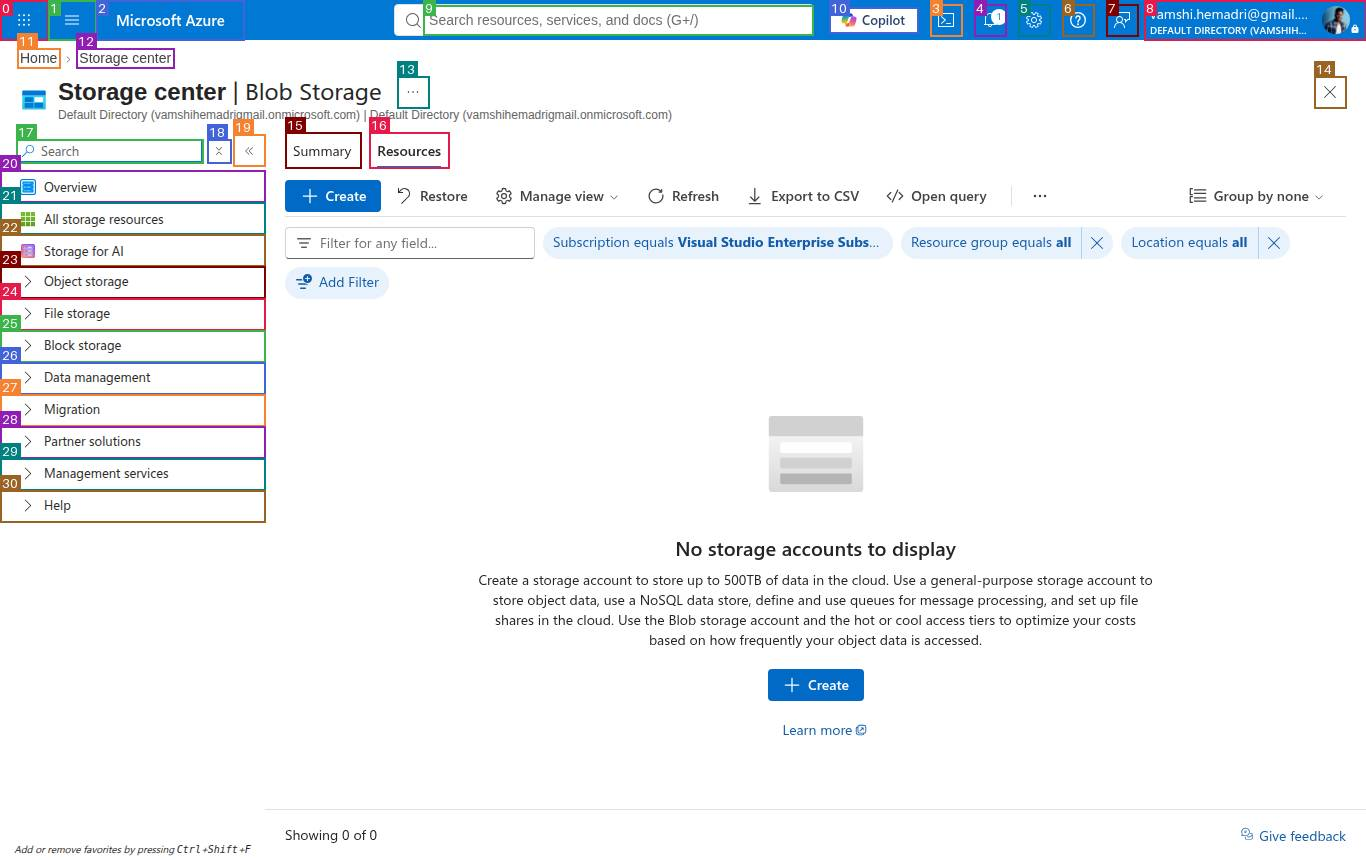
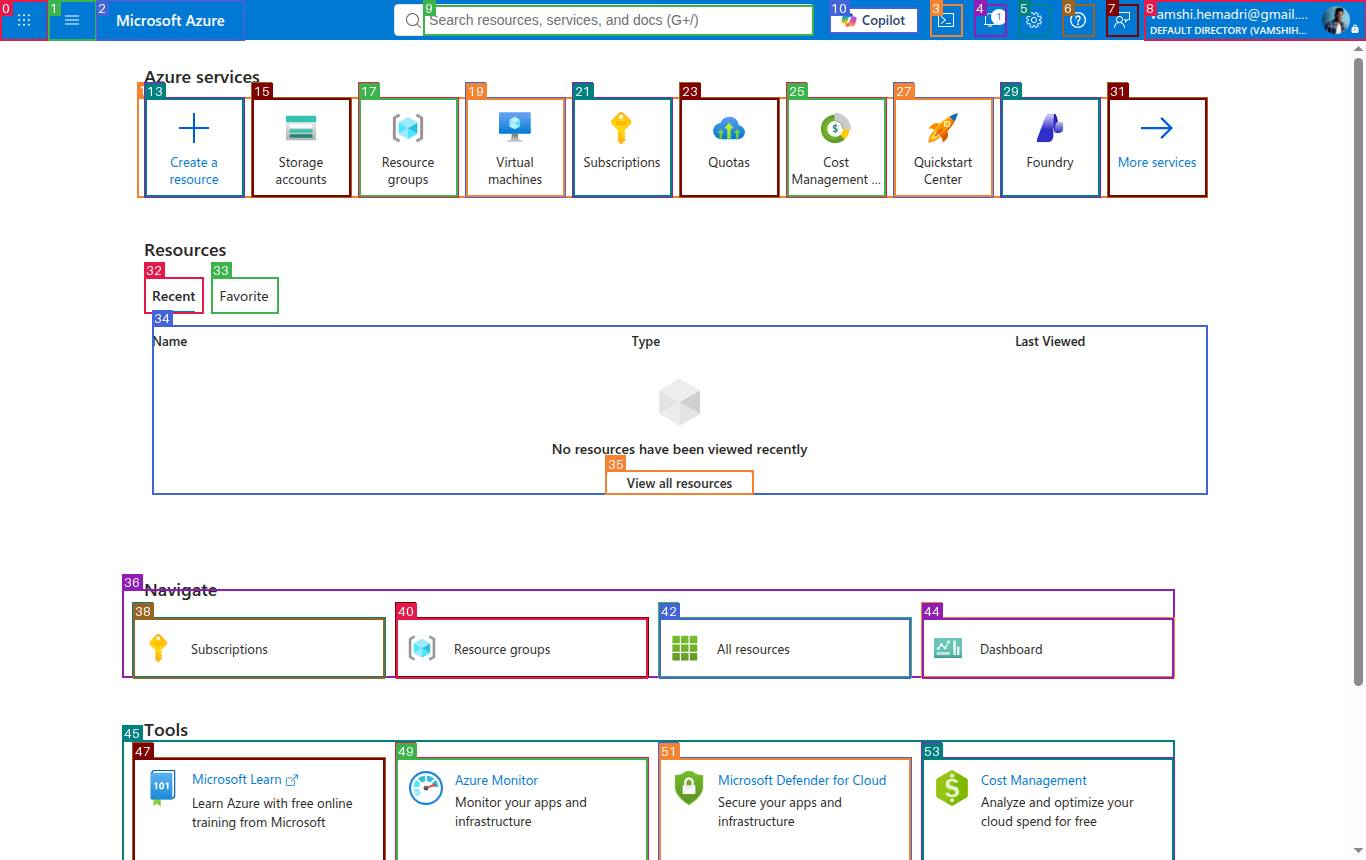
Demo UI polish: model tile, screen panel, learning history on load

diff --git a/groundhog/app.py b/groundhog/app.py
@@ -262,6 +262,17 @@ def api_harness():
     return jsonify(active=label, versions=versions, timeline=timeline, files=files)
 
 
+@app.get("/api/recent")
+def api_recent():
+    """Earlier learning (harness versions and lessons), newest first, so the feed tells the story after a restart."""
+    items = [dict(ts=a["ts"], kind="harness", title=f"Harness v{a['version']}: updated {', '.join(a['files'])}",
+                  text=a["hypotheses"][0] if a.get("hypotheses") else "", diff=a.get("diff", ""), version=a["version"])
+             for a in _jl("archive.jsonl") if a.get("status") == "accepted" and "version" in a]
+    items += [dict(ts=b["created"], kind="lesson", title=f"Lesson ({b['type']}, {b['scope']})", text=b["text"])
+              for b in brain.bullets() if b.get("created")]
+    return jsonify(items=sorted(items, key=lambda x: -x["ts"])[:14])
+
+
 @app.get("/api/summary")
 def api_summary():
     log = _jl("routing.jsonl")
@@ -351,7 +362,7 @@ nav button.on{background:#1c242e;color:#fff}nav button:hover{color:#fff}
 .compose{border-top:1px solid var(--line);padding:10px;display:flex;gap:8px}.compose input{flex:1;padding:10px 12px;border:1px solid #cfd5dd;border-radius:10px;font-size:14px}
 .compose button,.qb{background:var(--ink);color:#fff;border:0;border-radius:10px;padding:0 16px;cursor:pointer}
 .quick{display:flex;flex-wrap:wrap;gap:6px;padding:0 10px 10px}.qb{background:#eef1f5;color:var(--ink);padding:6px 10px;font-size:12px}
-.screen{position:relative;flex:1;display:flex;align-items:center;justify-content:center;background:#0b0f14;border-radius:0 0 12px 12px;overflow:hidden}
+.screen{position:relative;flex:1;display:flex;align-items:flex-start;justify-content:center;background:#eef1f5;border-radius:0 0 12px 12px;overflow:auto;padding:8px}
 .screen img{max-width:100%;max-height:100%}.now{padding:8px 14px;font-size:13px;border-bottom:1px solid var(--line);display:flex;gap:10px;align-items:center}
 .steps{margin-left:auto;background:var(--ink);color:#fff;border-radius:20px;padding:2px 12px;font-weight:700}
 .status{font-size:12px;color:var(--mut)}.dot{width:9px;height:9px;border-radius:50%;background:#bbb;display:inline-block}.dot.busy{background:var(--g);animation:p 1s infinite}
@@ -384,7 +395,7 @@ table{width:100%;border-collapse:collapse;font-size:13px}td,th{padding:6px 8px;b
 <div class="kpi hi"><div class="l">Harness version</div><div class="v" id="k-ver">v0</div><div class="d" id="k-ver-d"></div></div>
 <div class="kpi hi"><div class="l">Lessons learned</div><div class="v" id="k-les">0</div><div class="d" id="k-les-d"></div></div>
 <div class="kpi"><div class="l">Switchyard routing</div><div class="v"><span id="k-eff" style="color:var(--eff)">0</span> / <span id="k-cap" style="color:var(--cap)">0</span></div><div class="d">efficient / capable prompts</div></div>
-<div class="kpi"><div class="l">Nemotron models</div><div class="v" id="k-mod">0</div><div class="d" id="k-mod-d"></div></div>
+<div class="kpi"><div class="l">Nemotron models</div><div class="v" id="k-mod">0</div><div class="d" id="k-mod-d">all NVIDIA Nemotron on Crusoe</div></div>
 <div class="kpi"><div class="l">Validations</div><div class="v"><span id="k-ok" style="color:#047857">0</span> / <span id="k-bad" style="color:#b91c1c">0</span></div><div class="d">worked / failed</div></div>
 <div class="kpi"><div class="l">Cost so far</div><div class="v" id="k-cost">$0</div><div class="d">Crusoe inference</div></div></div>
 
@@ -478,7 +489,7 @@ function bar(v,c){return `<div class="bar"><i style="width:${Math.round(v*100)}%
 async function refresh(){try{const S=await (await fetch('/api/summary')).json();
  $('#k-ver').textContent='v'+S.version;$('#k-ver-d').textContent=S.versions_learned+' version(s) learned';$('#k-les').textContent=S.lessons;
  $('#k-les-d').textContent=S.trusted+' trusted · '+S.quarantined+' quarantined';$('#k-eff').textContent=S.efficient;$('#k-cap').textContent=S.capable;
- $('#k-mod').textContent=S.models.length;$('#k-mod-d').textContent=S.models.map(mn).join(', ');$('#k-ok').textContent=S.validations_ok;$('#k-bad').textContent=S.validations_bad;$('#k-cost').textContent='$'+S.spent;
+ $('#k-mod').textContent=S.models.length;$('#k-mod-d').title=S.models.map(mn).join(', ');$('#k-ok').textContent=S.validations_ok;$('#k-bad').textContent=S.validations_bad;$('#k-cost').textContent='$'+S.spent;
  const v=document.querySelector('nav button.on').dataset.v;
  if(v==='how'||v==='routing'){const R=await (await fetch('/api/routing')).json(),T=R.tiers,tp=k=>T[k]?`<span class="badge b-p">capable</span> ${mn(T[k][0])}<br><span class="badge b-e">efficient</span> ${mn(T[k][1])}`:'';
   if(v==='how'){$('#f-lead').innerHTML=tp('lead:');$('#f-scout').innerHTML=tp('scout:');$('#f-analyst').innerHTML=tp('analyst:web_navigation');$('#f-sy').innerHTML=`<b>${S.efficient}</b> efficient · <b>${S.capable}</b> capable so far`;$('#f-brain').innerHTML=`<b>${S.lessons}</b> lessons`;$('#f-ver').innerHTML=`now at <b>v${S.version}</b>`}
@@ -494,6 +505,9 @@ async function refresh(){try{const S=await (await fetch('/api/summary')).json();
   $('#b-list').innerHTML=bs.slice().reverse().map(b=>`<div class="lessoncard">${b.quarantined?'<span class="badge b-r">quarantined</span> ':''}${b.trusted?'<span class="badge b-g">trusted</span> ':''}${b.retired?'<span class="badge">retired</span> ':''}<span class="badge">${esc(b.type)}</span> <span class="muted">${esc(b.scope)}</span><div>${b.retired?'<s>':''}${esc(b.text)}</div><div class="muted">helped ${b.helpful} · hurt ${b.harmful}</div></div>`).join('');
   $('#b-val').innerHTML='<table>'+B.validations.slice().reverse().map(x=>`<tr><td><span class="badge ${x.worked?'b-e':'b-r'}">${x.worked?'worked':'failed'}</span></td><td>${esc(x.kind)}</td><td>${esc(x.detail)}</td></tr>`).join('')+'</table>'}
 }catch(e){console.log(e)}}
+fetch('/api/recent').then(r=>r.json()).then(d=>{if(!d.items.length)return;feed.innerHTML='';feedEmpty=false;
+ d.items.forEach(e=>{const icon=e.kind==='harness'?'🛠':'🧠';const it=document.createElement('div');it.className='it '+e.kind;it.style.opacity=.75;
+ it.innerHTML=`<div class="t">${icon} ${esc(e.title)}${e.version?` <span class="badge b-g">v${e.version}</span>`:''} <span class="muted" style="margin-left:auto;font-weight:400">earlier</span></div><div class="x">${esc(e.text)}</div>`+(e.diff?`<details><summary>what changed</summary>${diffHtml(e.diff)}</details>`:'');feed.appendChild(it)})});
 setInterval(refresh,3000);refresh();poll();
 </script></body></html>
 """
